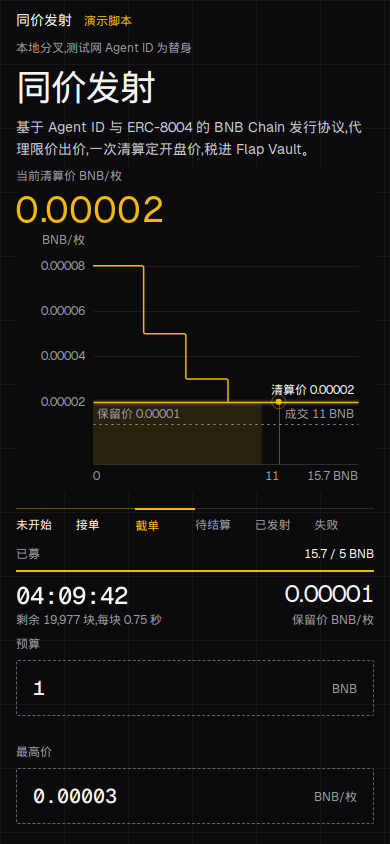
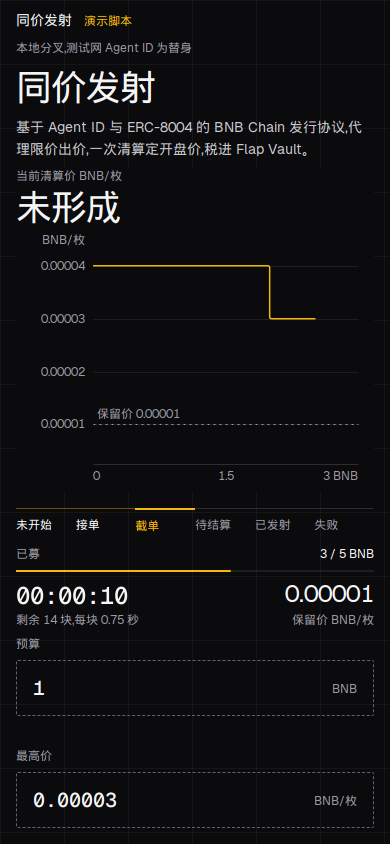
Add real close, settle, and full auctions on the local fork.
Help text is back to 8px without moving the bid button. Hash success, an on-chain revert, a denied copy, and a 32-bid book each have desktop and phone shots. Prototype comparisons keep weight 400, the flat rectangle, and the boxed readout.

diff --git a/web/src/PlotStage.tsx b/web/src/PlotStage.tsx
@@ -258,13 +258,13 @@ export function PlotStage({ bids, floor, clearing, failed, settle, intro, reduce
           {!failed && !plot.inStroke && plot.stroke && <path ref={strokeRef} className="step" d={plot.stroke} />}
         </g>
         <line className="reserve" x1={hair(plot.left)} x2={hair(plot.right)} y1={hair(plot.reserveY)} y2={hair(plot.reserveY)} />
-        <text className="tick" x={plot.left + 4} y={plot.reserveY + (plot.clearingY != null && Math.abs(plot.clearingY - plot.reserveY) < 18 ? 14 : -6)}>
+        <text className="tick" x={plot.left + 4} y={Math.min(plot.bottom - 4, Math.max(14, plot.reserveY + (plot.clearingY != null && Math.abs(plot.clearingY - plot.reserveY) < 18 ? 14 : -6)))}>
           保留价 {formatPrice(floor)}
         </text>
         {plot.yourY != null && (
           <>
             <line className={priceIn ? "your-line in" : "your-line"} x1={hair(plot.left)} x2={hair(plot.right)} y1={hair(plot.yourY)} y2={hair(plot.yourY)} />
-            <text className="tick" x={plot.left + 4} y={plot.yourY - 6}>
+            <text className="tick" x={plot.left + 4} y={Math.min(plot.bottom - 4, Math.max(14, plot.yourY <= plot.reserveY ? plot.yourY + 14 : plot.yourY - 6))}>
               你的限价 {formatPrice(yourPrice ?? 0n)}
             </text>
           </>
@@ -274,7 +274,7 @@ export function PlotStage({ bids, floor, clearing, failed, settle, intro, reduce
             <line className="volume" x1={hair(plot.crossX ?? plot.left)} x2={hair(plot.crossX ?? plot.left)} y1={hair(plot.clearingY)} y2={hair(plot.bottom)} />
             <line className="clear-glow" x1={hair(plot.left)} x2={hair(plot.right)} y1={hair(plot.clearingY)} y2={hair(plot.clearingY)} />
             <line className="clear-line" x1={hair(plot.left)} x2={hair(plot.right)} y1={hair(plot.clearingY)} y2={hair(plot.clearingY)} />
-            <text className="badge" x={plot.right - 4} y={plot.clearingY - 8} textAnchor="end">
+            <text className="badge" x={plot.right - 4} y={Math.max(14, plot.clearingY - 8)} textAnchor="end">
               清算价 {formatPrice(clearing ?? 0n)}
             </text>
             <text

diff --git a/web/src/styles.css b/web/src/styles.css
@@ -223,7 +223,7 @@ label { display: block; margin-top: var(--space-2); font-size: var(--fs-12); lin
   cursor: pointer;
 }
 .seg button[aria-checked="true"] { color: var(--accent); }
-.help, .estimate { min-height: 16px; margin: var(--space-1) 0 0; font-size: var(--fs-12); line-height: var(--lh-16); color: var(--muted); }
+.help, .estimate, .field-help { min-height: 16px; margin: var(--space-2) 0 0; font-size: var(--fs-12); line-height: var(--lh-16); color: var(--muted); }
 .help.bad, .estimate.bad { color: var(--text); }
 .mark { display: inline-block; width: 6px; height: 6px; margin-right: var(--space-2); border: 1px solid var(--accent); vertical-align: 1px; }
 .mark.solid { background: var(--accent); }

diff --git a/docs/design-log.md b/docs/design-log.md
@@ -23,3 +23,12 @@ Wed Nov 25 06:23:56 PM UTC 2026
 
 - 未开始的预览先前停在 1 像素的旧坐标上，因为空路径的字符串没变，缩放被跳过。现在空图会跟着容器重算，只留保留价虚线，纵轴是 0.000005、0.00001、0.000015。
 - 顶栏角标少一行时整页会上移 16px。角标区固定 48px 之后，接单、未开始、截单、待结算、已发射、失败的主按钮上沿都是 796，下沿 844，左栏下沿 884。
+Wed Nov 25 06:37:58 PM UTC 2026
+阶段：真实场次、帮助行、四种状态、三组原型。起 2026-11-25 18:30:33 UTC，止见上一行 date -u。
+- 截单 0xCE52DDbf8485aCC3A51D342531833af43d1c8134，待结算 0xdA237694120AFC09f2005b0F00dAfA70974ABe82。都不用 preview。链上区块 144799283 落在截单窗口里，并且已经过了待结算那场的结束区块。
+- 未开始造不出来：initialize 把开始区块写成部署时的区块。零出价但已经开始的场次是 0x9Af89e8eDcD37aAe6a78c4e7593afd10eb4dE820。preview=wait 仍只是预览。
+- 满额 0x13292eC04bC51AB97f592E796D4a6BCc7e371d2E，32 笔。截图 qa/r14/after-full-1440.png、after-full-390.png。
+- 核对通过的交易 0x4bef07d7ce2b1191d2a30aae61d672ffda9242e03c05d316f2b2b442bafd644c，链上失败的交易 0x0c0c703a5097f06c62a47c7a4612b9da5c2639877e9d0b3eb39d07de28db7e27。都在本机分叉。截图 after-hash-ok-*、after-hash-revert-*。
+- 复制失败是拒绝剪贴板之后拍的，after-copy-fail-*。
+- 帮助行回到 8px。原来「编号怎么填」带着大约 14px 的段落外边距，收掉之后按钮上沿仍是 796，下沿 844，左栏下沿 884。
+- 原型 qa/prototypes/weight.png、rect.png、window.png。选定字重 400、平涂、1px 整框。

diff --git a/docs/design-plan.md b/docs/design-plan.md
@@ -52,7 +52,17 @@ Uniform Launch    阶梯和同价矩形
 
 ## 曲线
 
-按容器像素画。同价矩形用方案乙，平涂 `--accent-a12`。方案甲的斜线排线和台阶抢层次，可读性差。价内台阶金色，价外台阶灰色。不画左侧纵轴线，不用模糊滤镜，清算点不循环呼吸。
+按容器像素画。同价矩形用方案乙，平涂 `--accent-a12`。方案甲的斜线排线和台阶、保留价虚线抢在同一条窄带里，260px 高的手机图上更花。对比图在 `qa/prototypes/rect.png`。价内台阶金色，价外台阶灰色。不画左侧纵轴线，不用模糊滤镜，清算点不循环呼吸。
+
+## 原型结论
+
+- 字重。`qa/prototypes/weight.png`。56px 下字重 300 比 400 更细，这台机器没有 300 的字重文件，浏览器会把笔画仿细，横画发虚。用 400。
+- 同价矩形。`qa/prototypes/rect.png`。平涂是一块安静的面积。6px 斜线贴着保留价虚线和「保留价」几个字，窄带里数不清。用平涂。
+- 读数窗。`qa/prototypes/window.png`。2px 底线和页面 64px 网格连成一条，看不出哪里能点。1px 整框把读数关在窗里。用整框。
+
+## 帮助行
+
+帮助行间距从 4px 改回 8px。腾出来的高度来自「编号怎么填」那一行：它是没有重置过的段落，上下各有大约 14px 的浏览器默认外边距。收成上 8px、下 0 之后，帮助行变高的部分被抵消。1440×900 上主按钮上沿仍是 796，下沿 844，左栏下沿 884。没有靠压帮助行来塞进第一屏。
 
 ## 控件依据
 
